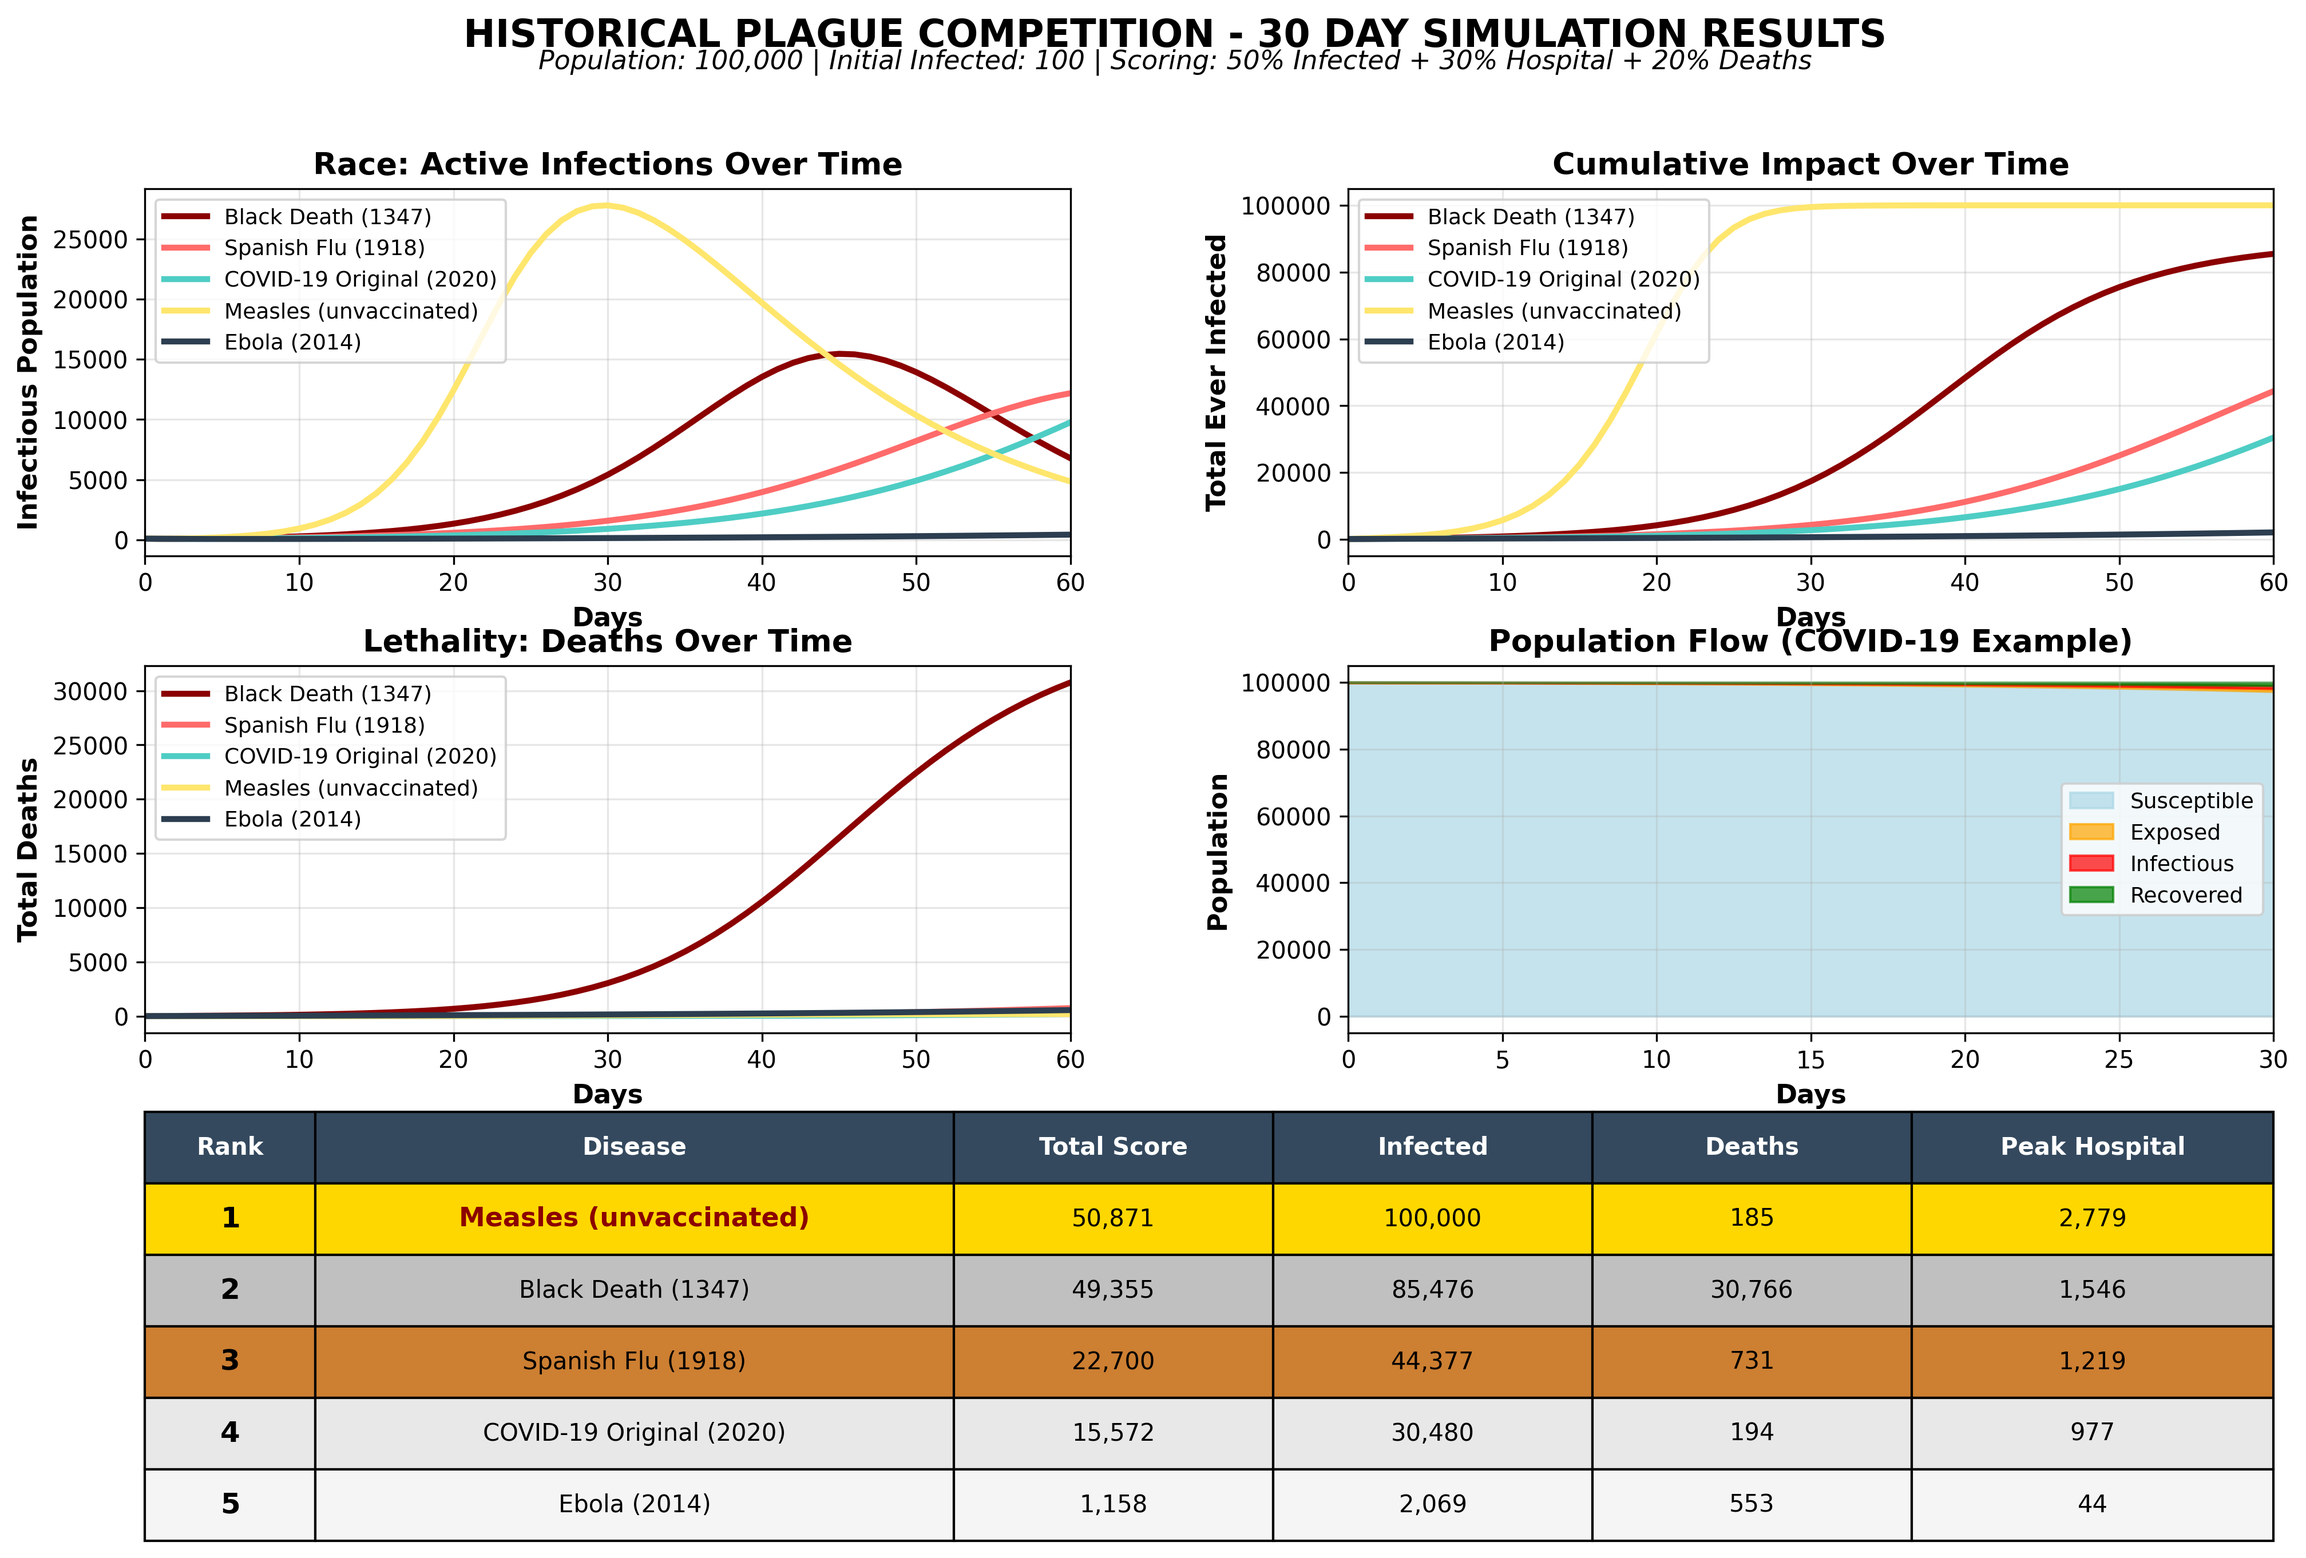
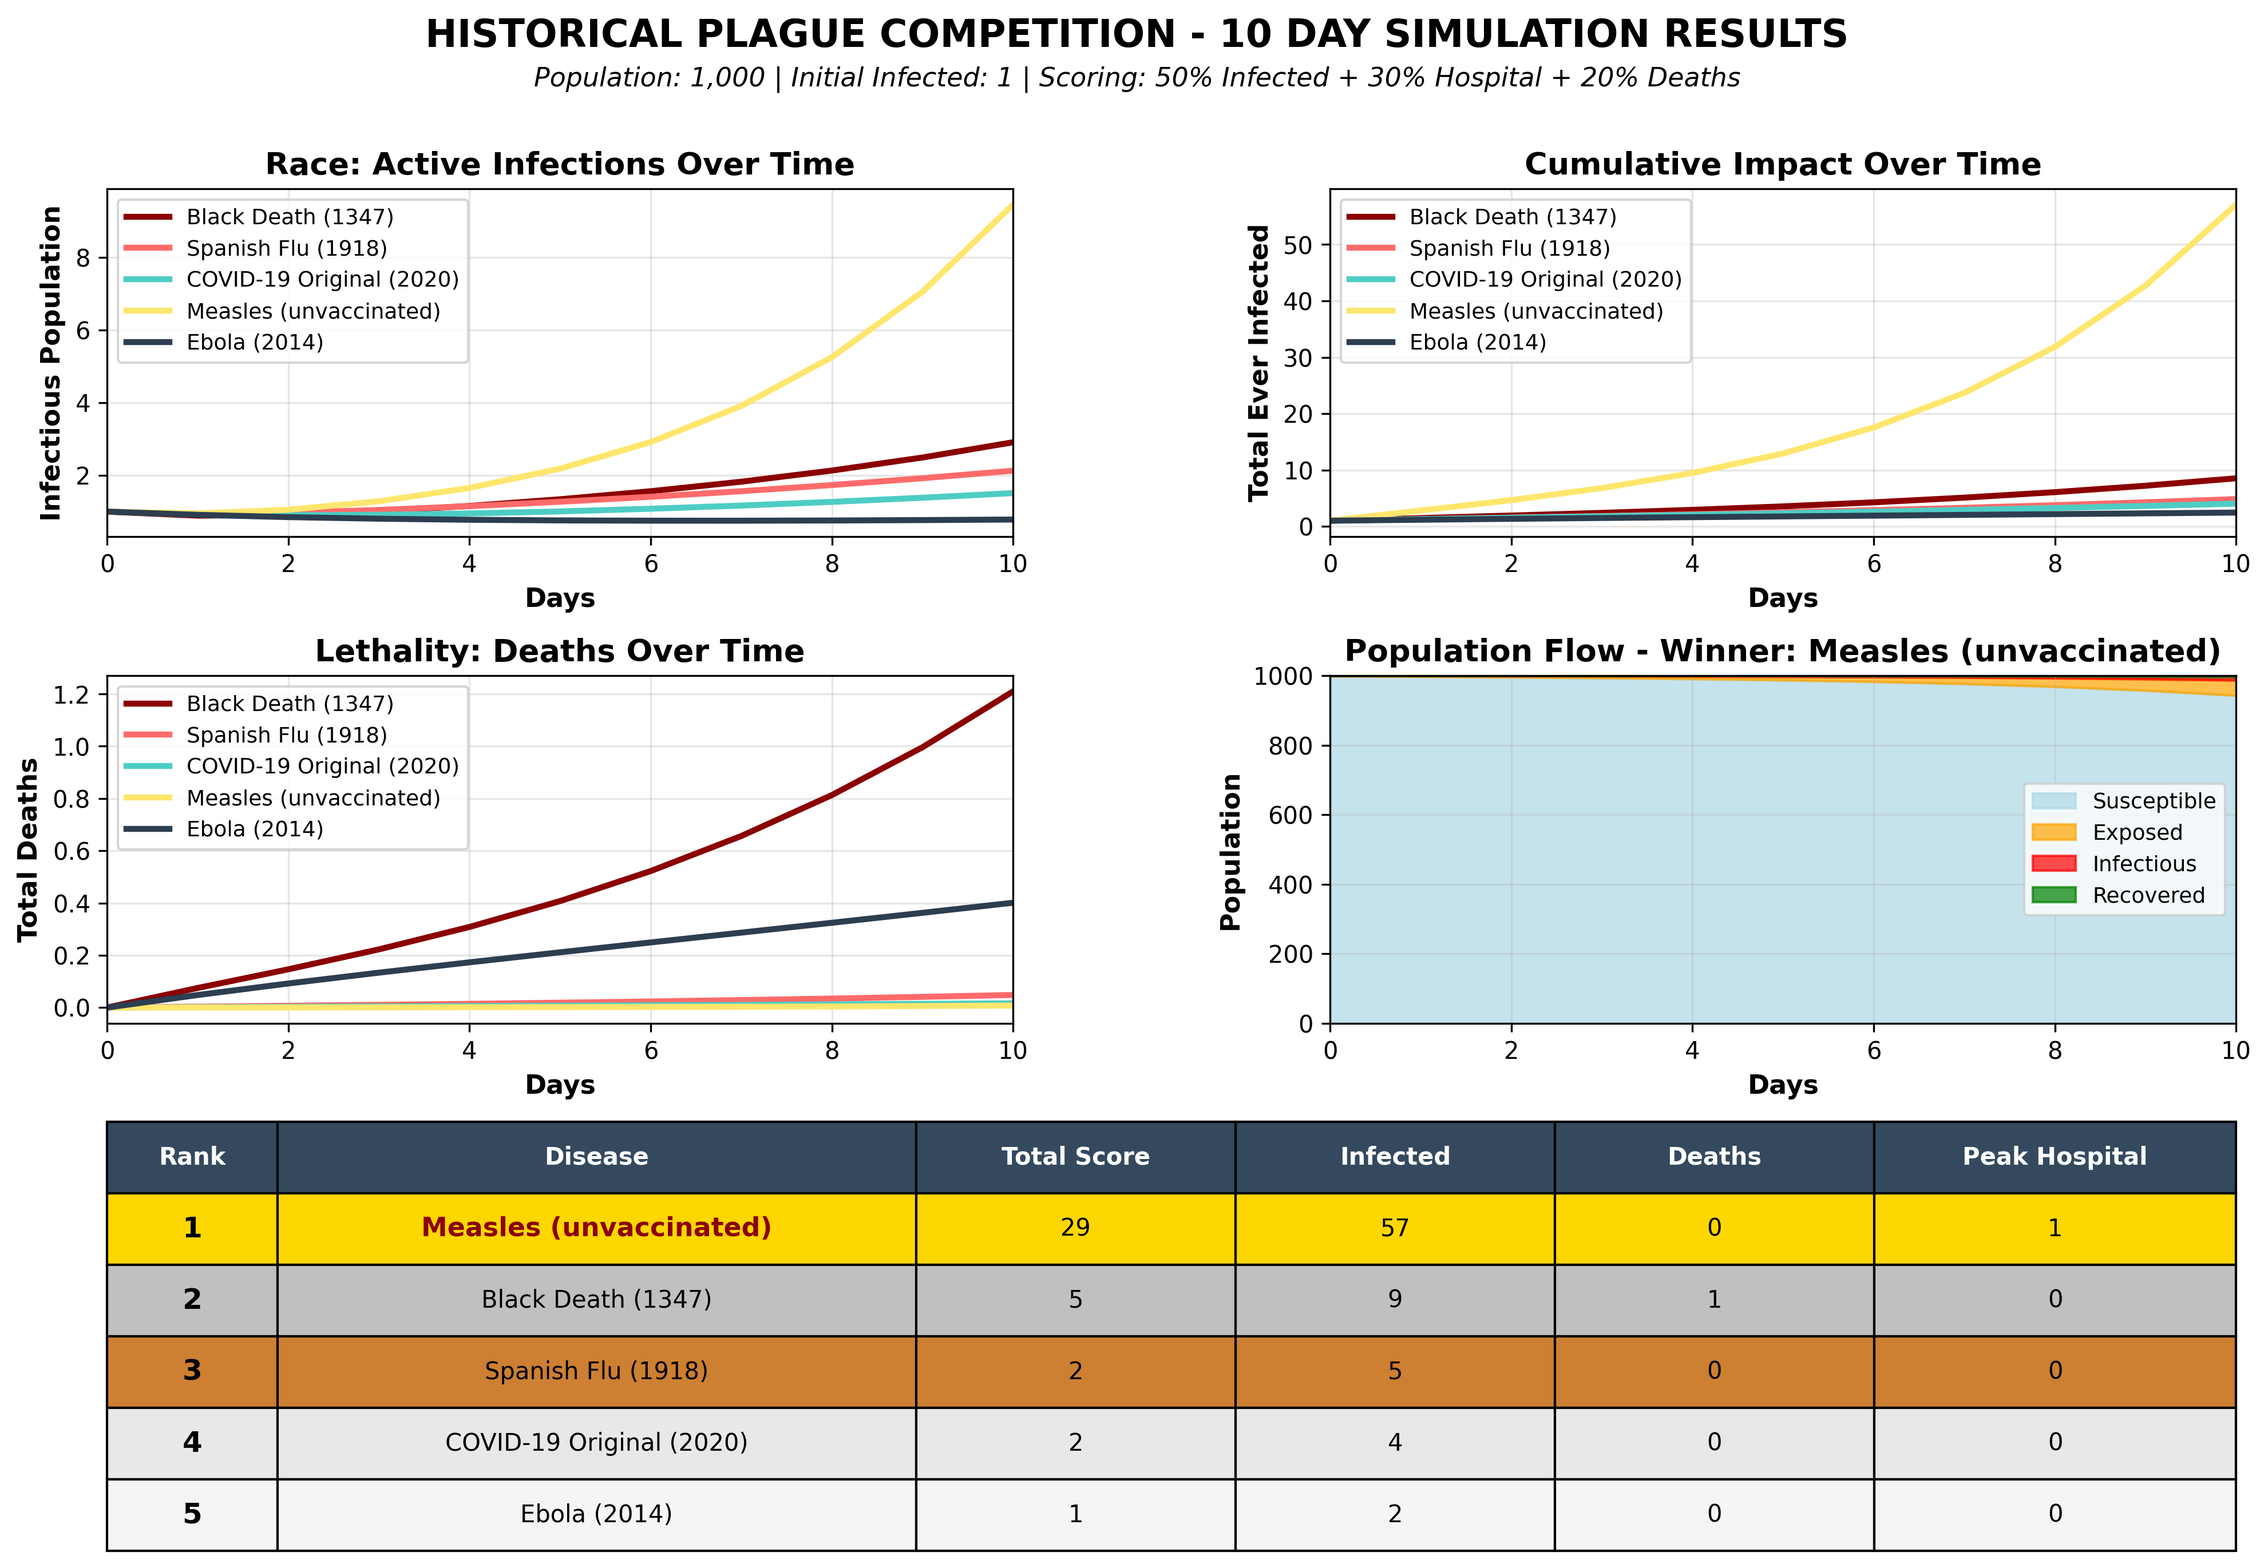
Some bugs corrections, missing the parallel execution

diff --git a/seir_seq.py b/seir_seq.py
@@ -212,16 +212,17 @@ def create_historical_scenarios() -> Dict[str, DiseaseParameters]:
     return scenarios
 
 
-def plot_comparison(all_results: List[Dict], scenarios: Dict[str, DiseaseParameters], population: int = 100000, days: int = 30, initial_infected: int = 10):
+def plot_comparison(all_results: Dict, scenarios: Dict[str, DiseaseParameters], 
+                   population: int = 100000, days: int = 30, initial_infected: int = 10):
     """
     Create comprehensive visualization comparing all 5 plagues
     """
     import matplotlib.pyplot as plt
     from matplotlib.gridspec import GridSpec
     
-    # Set up the figure with subplots
+    # Set up the figure with subplots - INCREASED PADDING
     fig = plt.figure(figsize=(16, 10))
-    gs = GridSpec(3, 2, figure=fig, hspace=0.3, wspace=0.3)
+    gs = GridSpec(3, 2, figure=fig, hspace=0.4, wspace=0.35)  # Increased from 0.3
     
     # Define colors for each disease
     colors = {
@@ -287,39 +288,56 @@ def plot_comparison(all_results: List[Dict], scenarios: Dict[str, DiseaseParamet
     ax3.grid(True, alpha=0.3)
     ax3.set_xlim(0, days)
     
-    # 4. SEIR COMPARTMENTS STACKED (middle right - pick most interesting disease)
+    # 4. SEIR COMPARTMENTS STACKED (middle right - WORST PLAGUE BY SCORE)
     ax4 = fig.add_subplot(gs[1, 1])
-    # Let's show COVID-19 as example
-    covid_result = all_results['covid19']
-    days = covid_result['history']['day']
     
-    ax4.fill_between(days, 0, covid_result['history']['S'], 
+    # FIND THE WORST PLAGUE (highest score)
+    worst_plague_key = None
+    worst_score = 0
+    worst_plague_name = ""
+    
+    for scenario_key, result in all_results.items():
+        stats = result['stats']
+        score = (stats['total_infected'] * 0.5 + 
+                stats['peak_hospital_load'] * 0.3 + 
+                stats['total_deaths'] * 0.2)
+        if score > worst_score:
+            worst_score = score
+            worst_plague_key = scenario_key
+            worst_plague_name = scenarios[scenario_key].name
+    
+    # Plot the worst plague
+    worst_result = all_results[worst_plague_key]
+    day_array = worst_result['history']['day']
+    
+    ax4.fill_between(day_array, 0, worst_result['history']['S'], 
                      label='Susceptible', color='lightblue', alpha=0.7)
-    ax4.fill_between(days, covid_result['history']['S'], 
-                     [s+e for s,e in zip(covid_result['history']['S'], covid_result['history']['E'])],
+    ax4.fill_between(day_array, worst_result['history']['S'], 
+                     [s+e for s,e in zip(worst_result['history']['S'], worst_result['history']['E'])],
                      label='Exposed', color='orange', alpha=0.7)
-    ax4.fill_between(days, 
-                     [s+e for s,e in zip(covid_result['history']['S'], covid_result['history']['E'])],
-                     [s+e+i for s,e,i in zip(covid_result['history']['S'], 
-                                            covid_result['history']['E'],
-                                            covid_result['history']['I'])],
+    ax4.fill_between(day_array, 
+                     [s+e for s,e in zip(worst_result['history']['S'], worst_result['history']['E'])],
+                     [s+e+i for s,e,i in zip(worst_result['history']['S'], 
+                                            worst_result['history']['E'],
+                                            worst_result['history']['I'])],
                      label='Infectious', color='red', alpha=0.7)
-    ax4.fill_between(days,
-                     [s+e+i for s,e,i in zip(covid_result['history']['S'], 
-                                            covid_result['history']['E'],
-                                            covid_result['history']['I'])],
-                     [s+e+i+r for s,e,i,r in zip(covid_result['history']['S'], 
-                                                 covid_result['history']['E'],
-                                                 covid_result['history']['I'],
-                                                 covid_result['history']['R'])],
+    ax4.fill_between(day_array,
+                     [s+e+i for s,e,i in zip(worst_result['history']['S'], 
+                                            worst_result['history']['E'],
+                                            worst_result['history']['I'])],
+                     [s+e+i+r for s,e,i,r in zip(worst_result['history']['S'], 
+                                                 worst_result['history']['E'],
+                                                 worst_result['history']['I'],
+                                                 worst_result['history']['R'])],
                      label='Recovered', color='green', alpha=0.7)
     
     ax4.set_xlabel('Days', fontsize=11, fontweight='bold')
     ax4.set_ylabel('Population', fontsize=11, fontweight='bold')
-    ax4.set_title('Population Flow (COVID-19 Example)', fontsize=13, fontweight='bold')
+    ax4.set_title(f'Population Flow - Winner: {worst_plague_name}', fontsize=13, fontweight='bold')
     ax4.legend(loc='right', frameon=True, fontsize=9)
     ax4.grid(True, alpha=0.3)
-    ax4.set_xlim(0, 30)
+    ax4.set_xlim(0, days)
+    ax4.set_ylim(0, population)
     
     # 5. FINAL SCOREBOARD (bottom, spanning both columns)
     ax5 = fig.add_subplot(gs[2, :])
@@ -386,11 +404,11 @@ def plot_comparison(all_results: List[Dict], scenarios: Dict[str, DiseaseParamet
     winner_cell.set_text_props(weight='bold', fontsize=11, color='darkred')
     
     # Overall title
-    fig.suptitle('HISTORICAL PLAGUE COMPETITION - 30 DAY SIMULATION RESULTS', 
+    fig.suptitle(f'HISTORICAL PLAGUE COMPETITION - {days} DAY SIMULATION RESULTS', 
                 fontsize=16, fontweight='bold', y=0.98)
     
     # Add subtitle
-    fig.text(0.5, 0.95, 'Population: 100,000 | Initial Infected: 100 | Scoring: 50% Infected + 30% Hospital + 20% Deaths',
+    fig.text(0.5, 0.94, f'Population: {population:,} | Initial Infected: {initial_infected} | Scoring: 50% Infected + 30% Hospital + 20% Deaths',
             ha='center', fontsize=11, style='italic')
     
     plt.tight_layout(rect=[0, 0, 1, 0.96])
@@ -407,7 +425,6 @@ if __name__ == "__main__":
     parser.add_argument("initial_infected", help="Initial number of infected individuals", type=int)
     parser.add_argument("days", help="Number of days to simulate", type=int)
     parser.add_argument("--no-viz", help="Disable visualization", action="store_true")
-    parser.add_argument("--output", help="Output filename for visualization", type=str, default="plague_competition.png")
     args = parser.parse_args()
     
     # Load scenarios
@@ -508,24 +525,20 @@ if __name__ == "__main__":
         print("GENERATING VISUALIZATIONS...")
         print("="*70)
         
-        # try:
-        #     # Main comparison plot
-        #     fig = plot_comparison(all_results, scenarios, population=args.population, days=args.days, initial_infected=args.initial_infected)
-        #     plt.savefig(args.output, dpi=300, bbox_inches='tight')
-        #     print(f"\n✓ Saved comparison plot: {args.output}")
-        #     # Show the plot
-        #     plt.show()
+        try:
+            # Main comparison plot
+            fig = plot_comparison(all_results, scenarios, population=args.population, days=args.days, initial_infected=args.initial_infected)
+            output_file = f"plagues_competition_{args.days}.png"
+            plt.savefig(output_file, dpi=300, bbox_inches='tight')
+            print(f"\n✓ Saved comparison plot: {output_file}")
+            # Show the plot
+            plt.show()
             
-        # except Exception as e:
-        #     print(f"\n⚠ Visualization failed: {e}")
-        #     print("Continuing without visualization...")
+        except Exception as e:
+            print(f"\n⚠ Visualization failed: {e}")
+            print("Continuing without visualization...")
 
-        # Main comparison plot
-        fig = plot_comparison(all_results, scenarios, population=args.population, days=args.days, initial_infected=args.initial_infected)
-        plt.savefig(args.output, dpi=300, bbox_inches='tight')
-        print(f"\n✓ Saved comparison plot: {args.output}")
-        # Show the plot
-        plt.show()
+    
 
     print("\n" + "="*70)
     print("SIMULATION COMPLETE!")
